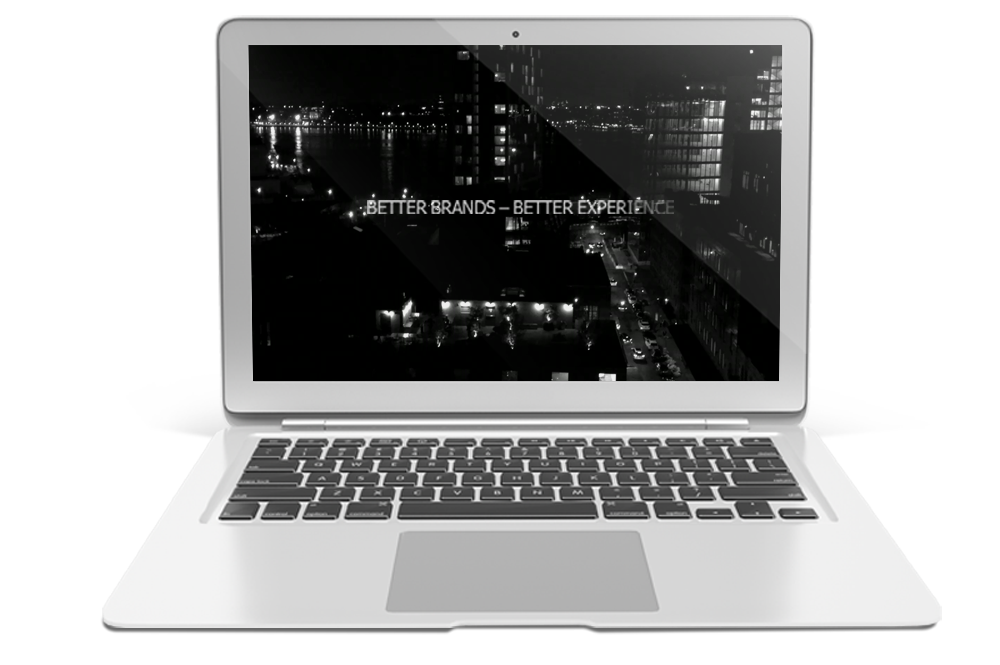
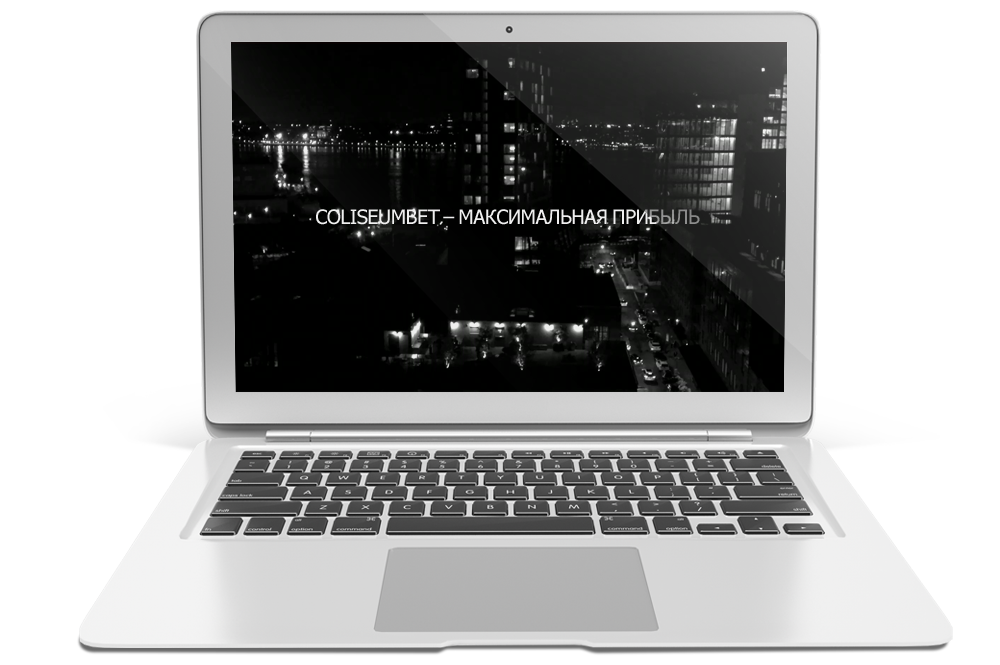
about-text

diff --git a/about.html b/about.html
@@ -140,14 +140,14 @@
 		<div class="container">
 			<div class="row">
 				<div class="col-md-12">
-					<h2>about us</h2>
-					<h3>What can we offer our affiliates?</h3>
+					<h2>О нас</h2>
+					<h3>Что мы можем предложить нашим партнерам?</h3>
 					<div class="line short-line">
 						<span class="line-inner">
 							<span class="line-inner-ring"></span>
 						</span>
 					</div>
-					<p>Run by an experienced management and guided by a track-proven business philosophy, Betsson Group Affiliates is defined as the perfect business-partner for those who look for continual profits and progress in the online gaming world of affiliate marketing.</p>
+					<p>Запуск маркетинговой программы руководствуясь нашим опытом управления проверенным сотнями других партнеров. Coliseum Affiliates является идеальным бизнес-партнером для тех, кто ищет постоянные прибыли и возможность прогрессировать в мире онлайн игр и партнерского маркетинга.</p>
 					<div class="line short-line">
 						<span class="line-inner">
 							<span class="line-inner-ring"></span>
@@ -167,14 +167,14 @@
 				</div>
 				<div class="col-md-6">
 					<div class="slots-right right-animate">
-						<h2>OUR HEADQUARTERS</h2>
+						<h2>Наша стратегия</h2>
 						<div class="line short-line line-left">
 							<span class="line-inner">
 								<span class="line-inner-ring"></span>
 							</span>
 						</div>
-						<p>Betsson is today the largest online gaming company operating on the island of Malta. It has seen rapid growth since opening its first office in 2005 with only 30 employees. Today Betsson Group employs almost 800 people in Malta, making a total of 1000 employees in its offices around the world. The new building has plenty of room for growth and has been built with the team’s future requirements in mind.</p>
-						<p>Betsson’s rapid growth continues and so does its contribution to the local economy. Online gaming brings in 12% of the Maltese GDP with Betsson Group being the strongest contributor.</p>
+						<p>Колизей - сегодня одна из крупнейших компаний в сфере игорного бизнеса. Которая быстро прогрессирует начиная с 2014 года когда был открыт первый офис с 20 сотрудниками.</p>
+						<p>Сегодня Coliseumbet продолжает расти и старается расширять сферы своей деетельности.</p>
 					</div>
 				</div>
 			</div>
@@ -184,16 +184,16 @@
 		<div class="container">
 			<div class="row">
 				<div class="col-md-12">
-					<h2>WHO WE ARE</h2>
+					<h2>Кто мы</h2>
 					<div class="line short-line">
 						<span class="line-inner">
 							<span class="line-inner-ring"></span>
 						</span>
 					</div>
-					<p>Betsson Group Affiliates is the exclusive online affiliate program that takes the core of traditional business and combines it with the best practices of the dynamic and profitable online gaming industry.</p>
-					<p>We offer the help needed to our affiliates in order to build a profitable and growing business-partnership. We keep ourselves updated regularly on the latest payment methods, legal issues, plus industry news to keep our partners always informed and up to date.</p>
-					<p>Our security and integrity in dealing with players and affiliates is second to none. We provide honest, accurate and in-depth statistics for your traffic in real-time.</p>
-					<p>We make sure your targets are achievable and realistic. We want all of our affiliates to be a successful part of the very profitable online gaming industry and with us, you can be sure that the opportunities to earn regular income are maximized.</p>
+					<p>Coliseum Affiliates - партнерская программа онлайн, которая берет опыт и разработки Incom Access и дополняет его собственными методами для наиболее успешного привлечения прибыли в игорном бизнесе.</p>
+					<p>Мы предлагаем помощь, необходимую нашим партнерам, чтобы построить прибыльное и растущее деловое сотрудничество. Мы предоставляем нашим партнерам регулярные выплаты удобными платежными сервисами. Также держим наших партнеров в курсе всех новостей в игорной сфере для того чтобы мы могли идти в ногу со временем.</p>
+					<p>Наша служба безопасности и контроля честности постоянно обеспечиет честную, точную и всестороннюю статистику для Вашего анализа в режиме реального времени.</p>
+					<p>Мы уверены, что Ваши цели достижимы и реалистичны. Мы хотим, чтобы все наши партнеры были успешной частью очень прибыльной партнерской программы и с нами, Вы можете быть уверены, что возможности получить регулярный доход максимизируются.</p>
 				</div>
 			</div>
 		</div>

diff --git a/index.html b/index.html
@@ -297,7 +297,7 @@
 		<li>
 			<div> <a href="img/accordion/2.jpg">
 				<h2>Sportsbook</h2>
-				<p>Наша букмекерская линия поистине впечатляет предлагая огромное кол-во событий как в пре матч так и в лайве,а также большое кол-во дополнительных ставок  во всех видах спорта. Мы также предлагаем высокие лимиты ставкок, так что любой игрок, который захочет сыграть по крупному останется доволен.</p>
+				<p>Наша букмекерская линия поистине впечатляет предлагая огромное кол-во событий как в пре матч так и в лайве, а также большое кол-во дополнительных ставок  во всех видах спорта. Мы также предлагаем высокие лимиты ставок, так что любой игрок, который захочет сыграть по крупному останется доволен.</p>
 				</a> </div>
 		</li>
 		<li>
